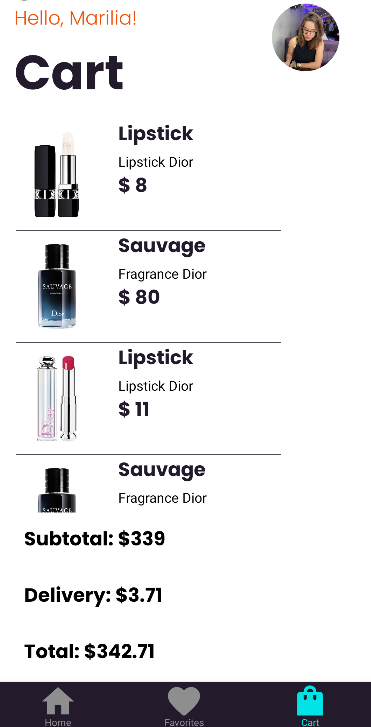
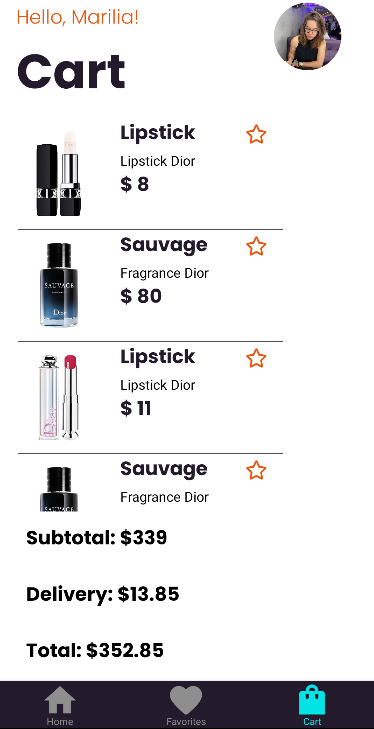
Implementing favorites products with AsyncStorage

diff --git a/src/Screens/Cart/index.tsx b/src/Screens/Cart/index.tsx
@@ -6,8 +6,10 @@ import {
 } from "../../Global/Providers/NaturalBeautyProvider";
 
 import { styles } from "./styles";
+import { View, Text, FlatList } from "react-native";
 import { Avatar } from "../../Components/Avatar/Avatar";
-import { View, Text, FlatList, Image } from "react-native";
+import { ProductCard } from "../../Components/ProductCard";
+import { favoriteProducts } from "../../Services/favorites";
 import { ListDivider } from "../../Components/ListDivider/ListDivider";
 
 export function Cart() {
@@ -35,6 +37,14 @@ export function Cart() {
   setDelivery(roundedDelivery);
  }
 
+ async function favoriteProduct(data: string) {
+  try {
+   return await favoriteProducts(data);
+  } catch (error) {
+   console.error(error);
+  }
+ }
+
  useEffect(() => {
   calcSubtotal(naturalBeauty);
   calcDelivery();
@@ -42,21 +52,13 @@ export function Cart() {
 
  function renderItem(item: NaturalBeautyProps) {
   return (
-   <View style={styles.containerItem}>
-    <Image source={item.image} style={styles.image} />
-
-    <View>
-     <Text style={styles.product}>{item.name}</Text>
-     <Text>{item.description}</Text>
-     <Text style={styles.product}>$ {item.price}</Text>
-    </View>
-   </View>
+   <ProductCard item={item} handlefavorite={() => favoriteProduct(item.id)} />
   );
  }
 
  return (
   <View style={styles.content}>
-   <View style={{ flexDirection: "row" }}>
+   <View style={styles.row}>
     <View>
      <Text style={styles.subtitle}>Hello, Marilia!</Text>
 

diff --git a/src/Components/ProductCard/index.tsx b/src/Components/ProductCard/index.tsx
@@ -1,0 +1,35 @@
+import React from "react";
+
+import { FontAwesome5 } from "@expo/vector-icons";
+import { theme } from "../../Global/Styles/theme";
+import { Image, Text, TouchableOpacity, View } from "react-native";
+import { NaturalBeautyProps } from "../../Global/Providers/NaturalBeautyProvider";
+import { styles } from "./styles";
+
+interface Props {
+ item: NaturalBeautyProps;
+ handlefavorite(): void;
+}
+
+export function ProductCard({ item, handlefavorite }: Props) {
+ return (
+  <View style={styles.containerItem}>
+   <Image source={item.image} style={styles.image} />
+
+   <View style={styles.row}>
+    <View>
+     <Text style={styles.product}>{item.name}</Text>
+     <Text>{item.description}</Text>
+     <Text style={styles.product}>$ {item.price}</Text>
+    </View>
+    <TouchableOpacity
+     activeOpacity={0.7}
+     onPress={handlefavorite}
+     style={styles.icon}
+    >
+     <FontAwesome5 name="star" size={20} color={theme.colors.orange} />
+    </TouchableOpacity>
+   </View>
+  </View>
+ );
+}

diff --git a/src/Services/favorites/index.tsx b/src/Services/favorites/index.tsx
@@ -1,0 +1,29 @@
+import AsyncStorage from "@react-native-async-storage/async-storage";
+
+const FAST_ACESS_STORAGE_KEY = "@NaturalBeauty/favorites";
+
+export async function favoriteProducts(data: string): Promise<void> {
+ try {
+  const response: string | null = await AsyncStorage.getItem(
+   FAST_ACESS_STORAGE_KEY
+  );
+
+  let arr = response ? JSON.parse(response) : [];
+  const jsonValue = JSON.stringify([...arr, data]);
+  await AsyncStorage.setItem(FAST_ACESS_STORAGE_KEY, jsonValue);
+ } catch (error) {
+  console.error(error);
+ }
+}
+
+export async function loadFavorites() {
+ try {
+  const response: string | null = await AsyncStorage.getItem(
+   FAST_ACESS_STORAGE_KEY
+  );
+
+  return response ? JSON.parse(response) : [];
+ } catch (error) {
+  console.error(error);
+ }
+}

diff --git a/src/Screens/Cart/styles.ts b/src/Screens/Cart/styles.ts
@@ -8,11 +8,6 @@ export const styles = StyleSheet.create({
   backgroundColor: theme.colors.white,
  },
 
- containerItem: {
-  flexDirection: "row",
-  flex: 1,
- },
-
  subtitle: {
   fontFamily: theme.fonts.subtitle,
   color: theme.colors.orange,
@@ -28,24 +23,14 @@ export const styles = StyleSheet.create({
   fontSize: 50,
  },
 
- image: {
-  height: 100,
-  width: 100,
-  marginVertical: 8,
-  marginHorizontal: 14,
-  borderRadius: 10,
- },
-
- product: {
-  fontFamily: theme.fonts.title,
-  color: theme.colors.gray,
-  fontSize: 20,
- },
-
  payment: {
   fontFamily: theme.fonts.title,
   fontSize: 20,
   marginLeft: 30,
   marginVertical: 12,
+ },
+
+ row: {
+  flexDirection: "row",
  },
 });

diff --git a/src/Screens/Favorites/index.tsx b/src/Screens/Favorites/index.tsx
@@ -1,11 +1,23 @@
-import React from 'react';
+import React from "react";
 
-import { View } from 'react-native';
+import { styles } from "./styles";
+import { Text, View } from "react-native";
+import { loadFavorites } from "../../Services/favorites";
+import { useFocusEffect } from "@react-navigation/native";
 
-export function Favorites(){
-    return(
-        <View>
+async function loadContent() {
+ const response = await loadFavorites();
+ return response;
+}
 
-        </View>
-    );
+export function Favorites() {
+ useFocusEffect(() => {
+  loadContent();
+ });
+
+ return (
+  <View style={styles.content}>
+   <Text style={styles.title}>Favorites</Text>
+  </View>
+ );
 }

diff --git a/src/Screens/Home/index.tsx b/src/Screens/Home/index.tsx
@@ -1,11 +1,16 @@
-import React from 'react';
+import React from "react";
 
-import { View } from 'react-native';
+import { Text, View } from "react-native";
+import { styles } from "./styles";
+import { theme } from "../../Global/Styles/theme";
 
-export function Home(){
-    return(
-        <View>
-
-        </View>
-    );
+export function Home() {
+ return (
+  <View style={styles.content}>
+   <Text style={styles.title}>
+    Welcome to{" "}
+    <Text style={{ color: theme.colors.orange }}>Natural Beauty</Text>
+   </Text>
+  </View>
+ );
 }

diff --git a/src/Components/ProductCard/styles.ts b/src/Components/ProductCard/styles.ts
@@ -1,0 +1,29 @@
+import { StyleSheet } from "react-native";
+import { theme } from "../../Global/Styles/theme";
+
+export const styles = StyleSheet.create({
+ containerItem: {
+  flex: 1,
+  flexDirection: "row",
+ },
+
+ image: {
+  height: 100,
+  width: 100,
+  marginVertical: 8,
+  marginHorizontal: 14,
+  borderRadius: 10,
+ },
+
+ product: {
+  fontFamily: theme.fonts.title,
+  color: theme.colors.gray,
+  fontSize: 20,
+ },
+
+ row: {
+  flexDirection: "row",
+ },
+
+ icon: { position: "absolute", marginLeft: 130, marginTop: 6 },
+});

diff --git a/src/Screens/Favorites/styles.ts b/src/Screens/Favorites/styles.ts
@@ -1,0 +1,17 @@
+import { StyleSheet } from "react-native";
+import { theme } from "../../Global/Styles/theme";
+
+export const styles = StyleSheet.create({
+ title: {
+  fontSize: 50,
+  marginVertical: 60,
+  marginHorizontal: 20,
+  color: theme.colors.gray,
+  fontFamily: theme.fonts.title,
+ },
+
+ content: {
+  flex: 1,
+  backgroundColor: theme.colors.white,
+ },
+});

diff --git a/src/Screens/Home/styles.ts b/src/Screens/Home/styles.ts
@@ -1,0 +1,17 @@
+import { StyleSheet } from "react-native";
+import { theme } from "../../Global/Styles/theme";
+
+export const styles = StyleSheet.create({
+ content: {
+  flex: 1,
+  backgroundColor: theme.colors.white,
+ },
+
+ title: {
+  fontSize: 50,
+  marginVertical: 60,
+  marginHorizontal: 20,
+  color: theme.colors.gray,
+  fontFamily: theme.fonts.title,
+ },
+});

diff --git a/src/Models/favorites.ts b/src/Models/favorites.ts
@@ -1,0 +1,3 @@
+export interface FavoriteProductDTO {
+ id: string;
+}

diff --git a/README.md b/README.md
@@ -1,3 +1,7 @@
+<p align="center">
+  <img src="assets/signin.png" alt="SignIn" width="250" height="450" />
+</p>
+
 # Natural Beauty
 
 Welcome to **Natural Beauty**, a React Native application developed with Expo for selling beauty products.
@@ -7,7 +11,7 @@ Welcome to **Natural Beauty**, a React Native application developed with Expo fo
 **Natural Beauty** is an e-commerce app designed to offer a wide variety of natural beauty products. With an intuitive interface and attractive features, our app allows users to browse products, add items to cart, and make purchases quickly and conveniently.
 
 <p align="center">
-  <img src="assets/signin.png" alt="SignIn" width="250" height="450" />
+  <img src="assets/home.png" alt="Home" width="250" height="450" />
 </p>
 
 ## Key Features
